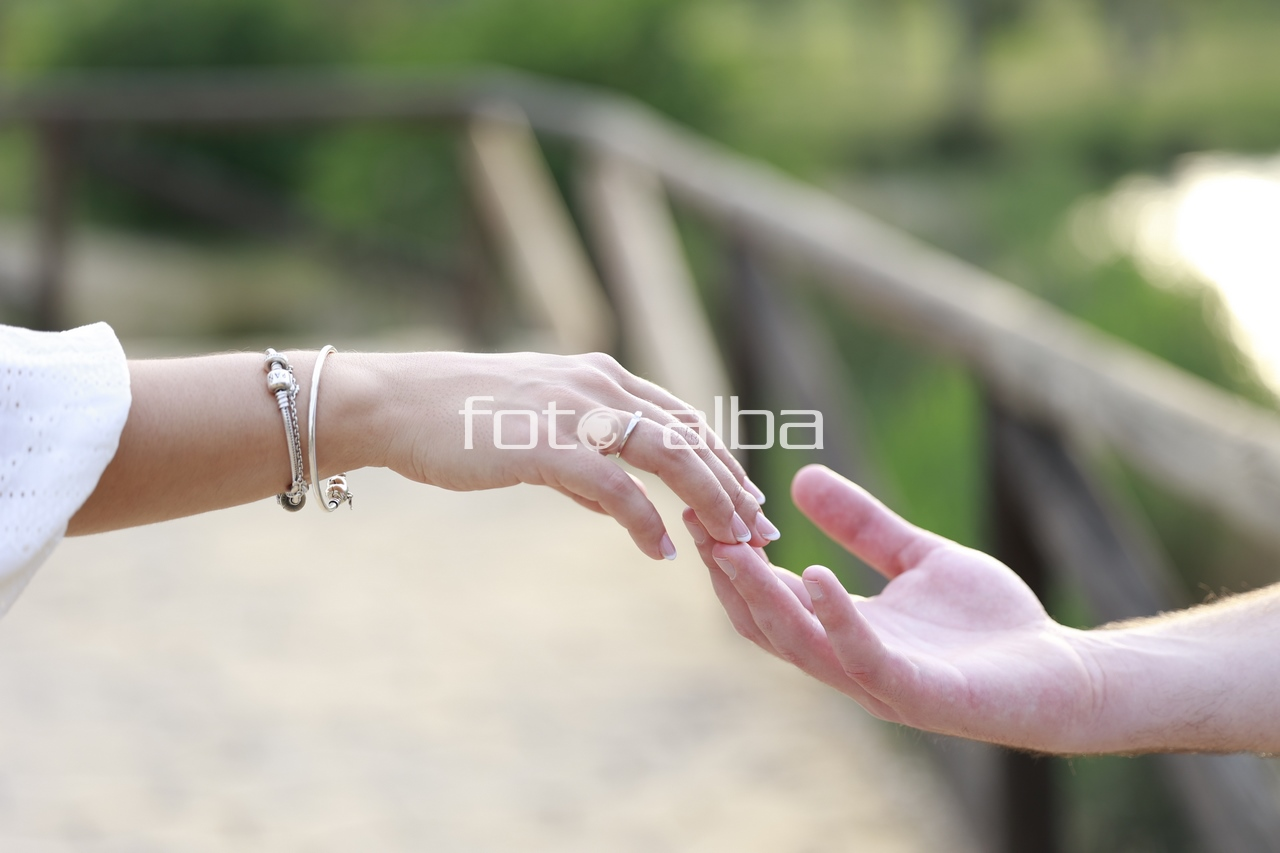
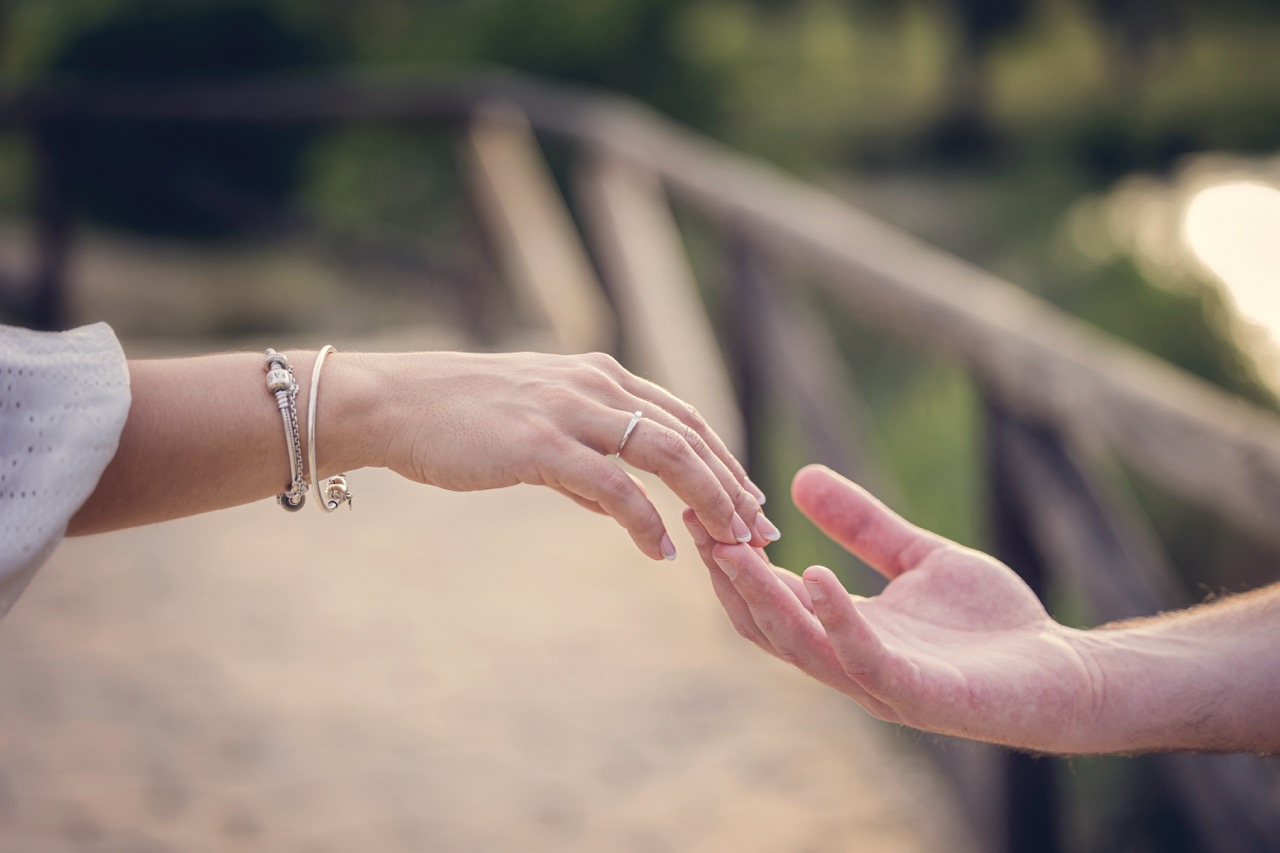
feat: updating images

diff --git a/src/components/invitation/weddingInfo.vue b/src/components/invitation/weddingInfo.vue
@@ -2,7 +2,7 @@
   <div class="wedding-qa">
     <div class="header-image-with-space">
       <img
-        :src="preboda121"
+        :src="preboda4"
         alt="Example Image"
         class="header-image-with-frame"
       />
@@ -44,7 +44,7 @@
     </div>
     <div class="header-image-with-space">
       <img
-        :src="preboda77"
+        :src="preboda1"
         alt="Example Image"
         class="header-image-with-frame"
       />
@@ -53,8 +53,8 @@
 </template>
 
 <script setup>
-import preboda121 from '@/assets/preboda/preboda_121.jpg'
-import preboda77 from '@/assets/preboda/preboda_77.jpg'
+import preboda4 from '@/assets/preboda/preboda_4.jpeg'
+import preboda1 from '@/assets/preboda/preboda_1.jpeg'
 </script>
 
 <style lang="scss">

diff --git a/src/components/invitation/weddingComeTo.vue b/src/components/invitation/weddingComeTo.vue
@@ -8,7 +8,7 @@
 
     <div class="header-image-with-space">
       <img
-        :src="preboda90"
+        :src="preboda5"
         alt="Example Image"
         class="header-image-with-frame"
       />
@@ -28,7 +28,7 @@
 </template>
 
 <script setup>
-import preboda90 from '@/assets/preboda/preboda_90.jpg'
+import preboda5 from '@/assets/preboda/preboda_5.jpeg'
 import flowerGreenBig from '@/assets/flowers/flower-middle-green-big.webp'
 const messageComeTo =
   'Tras más de siete años compartiendo momentos inolvidables, te invitamos a ser parte de un momento único en nuestras vidas.'

diff --git a/src/components/invitation/weddingForm.vue b/src/components/invitation/weddingForm.vue
@@ -46,7 +46,7 @@
 
     <div class="header-image-with-space">
       <img
-        :src="preboda215"
+        :src="preboda2"
         alt="Example Image"
         class="header-image-with-frame"
       />
@@ -55,7 +55,7 @@
 </template>
 
 <script setup>
-import preboda215 from '@/assets/preboda/preboda_215.jpg'
+import preboda2 from '@/assets/preboda/preboda_2.jpeg'
 import { ref } from 'vue'
 import { initializeApp } from 'firebase/app'
 import { getFirestore, addDoc, collection } from 'firebase/firestore'
